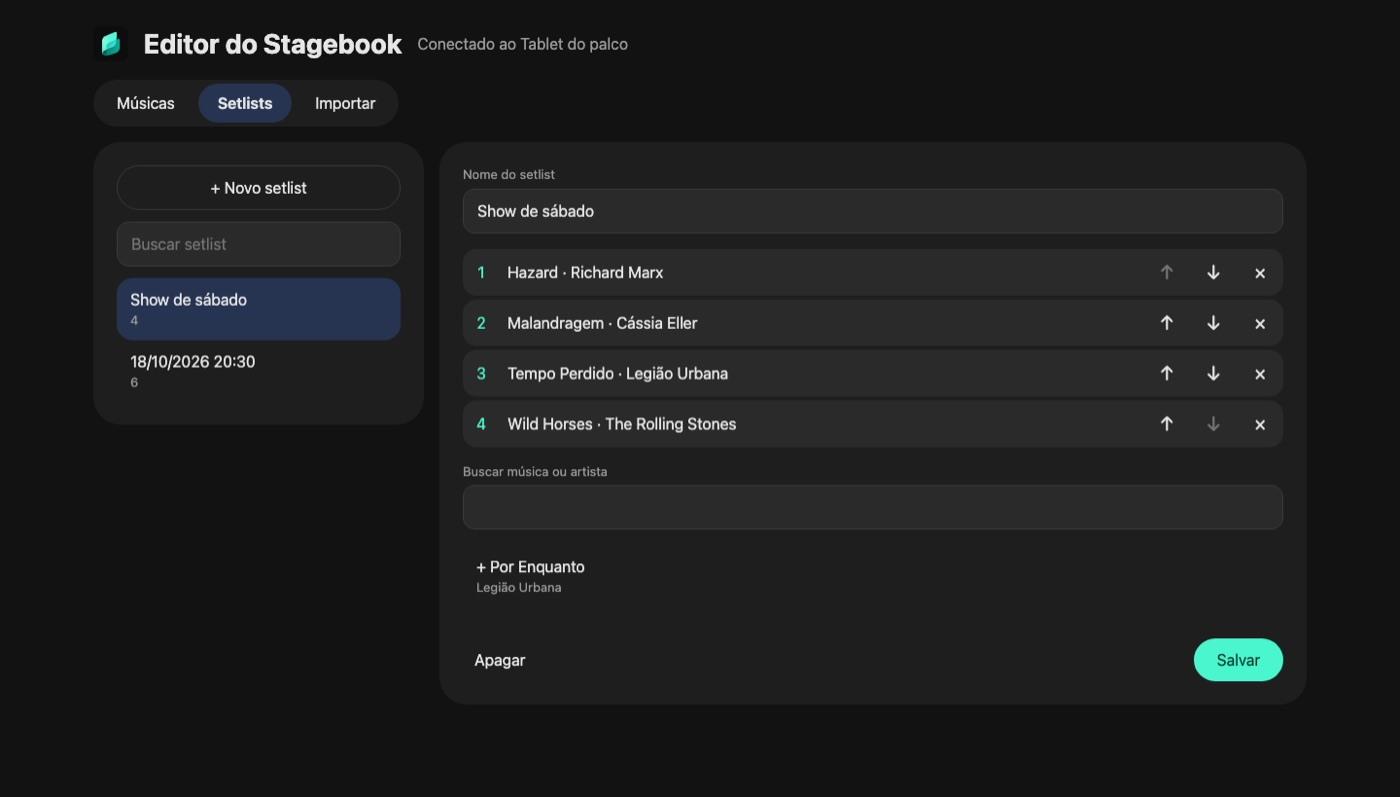
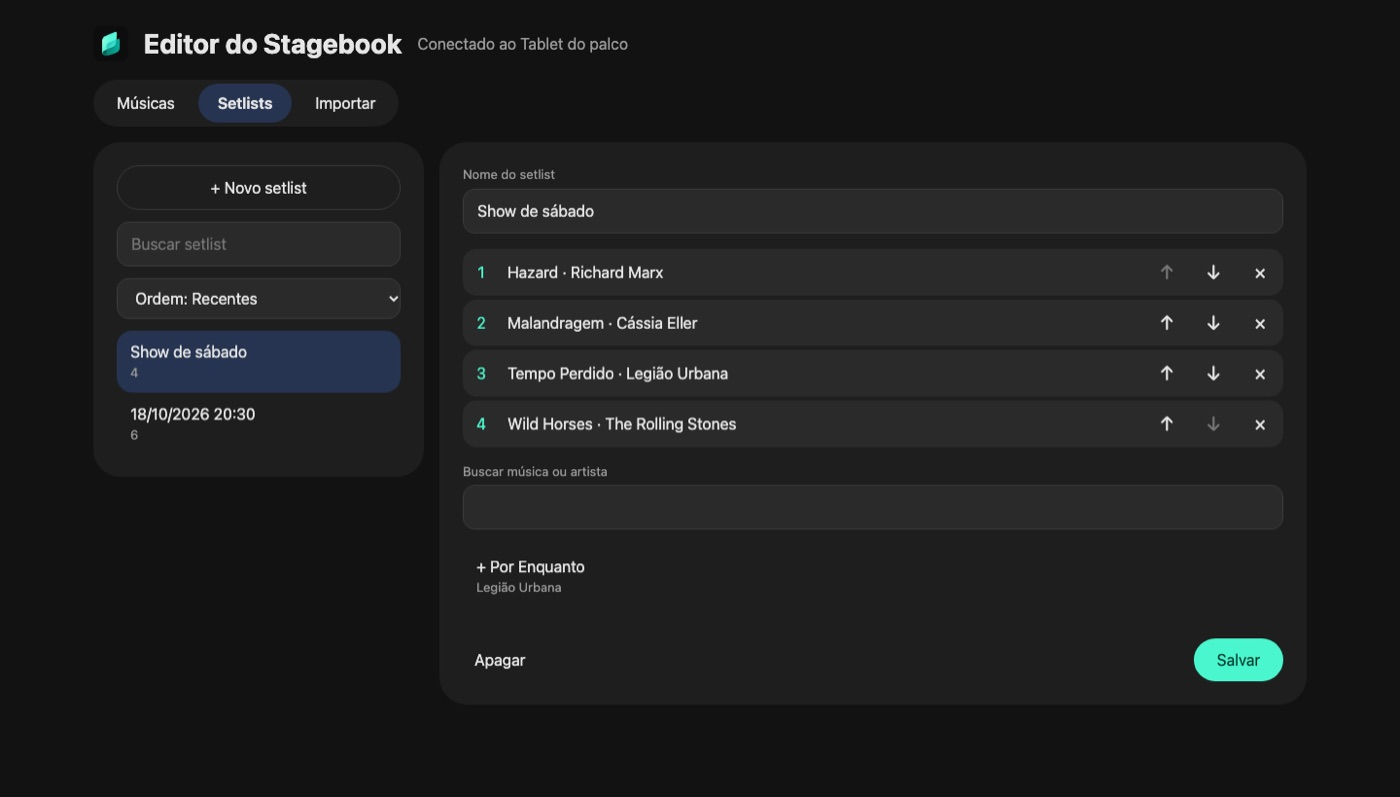
Setlists order also on the computer and for assistants · Ordem dos setlists também no computador e nos assistentes
The tab's choice now reaches the web editor, as a dropdown, and the MCP server, as the setlist_order tool: one setting,
read and changed through /api/sets-order, and /api/sets lists by it. list_setlists takes a name filter. MCP goes to
0.1.3. The sort by name lives in TextKey, shared with the tab.

A escolha da aba agora chega ao editor web, como combo, e ao servidor MCP, como a ferramenta setlist_order: um ajuste só,
lido e mudado por /api/sets-order, e /api/sets lista por ele. list_setlists ganha filtro por nome. MCP vai para 0.1.3.

Release-Note: The editor on the computer can also change the setlists' order · O editor no computador também muda a ordem dos setlists

Changed region(s): [[0.0614, 0.3312, 0.3071, 0.542]]

diff --git a/app/src/main/java/br/app/stagebook/data/web/WebEditorApi.kt b/app/src/main/java/br/app/stagebook/data/web/WebEditorApi.kt
@@ -69,6 +69,10 @@ class WebEditorApi(
     @Serializable
     data class SetItem(val id: String, val name: String, val count: Int)
 
+    /** The Setlists tab's order, the same choice on the tablet, in the browser and for the assistants. */
+    @Serializable
+    data class SetsOrder(val abc: Boolean)
+
     /** A setlist with its songs in order; a song deleted from the library comes with an empty title. */
     @Serializable
     data class SetData(val id: String = "", val name: String = "", val songs: List<SongItem> = emptyList())
@@ -128,7 +132,9 @@ class WebEditorApi(
             parts == listOf("band") && req.method == "GET" -> bandItems()
             parts == listOf("band", "sync") && req.method == "POST" -> bandSync()
             parts == listOf("band", "open") && req.method == "POST" -> bandOpen(req)
-            parts == listOf("sets") && req.method == "GET" -> ok(json.encodeToString(repository.library.value.sets.map { SetItem(it.id, it.name, it.items.size) }))
+            parts == listOf("sets") && req.method == "GET" -> ok(json.encodeToString(setRows()))
+            parts == listOf("sets-order") && req.method == "GET" -> ok(json.encodeToString(SetsOrder(repository.library.value.look.setsAbc)))
+            parts == listOf("sets-order") && req.method == "PUT" -> setsOrder(req)
             parts == listOf("sets") && req.method == "POST" -> setCreate(req)
             parts.size == 2 && parts[0] == "sets" -> when (req.method) {
                 "GET" -> repository.library.value.setlist(parts[1])?.let { ok(json.encodeToString(setData(it))) } ?: HttpResponse.status(404)
@@ -347,6 +353,19 @@ class WebEditorApi(
         set.id, set.name,
         set.items.map { id -> repository.song(id)?.let { SongItem(it.id, it.title, it.author, it.year, Chords.key(it.text)) } ?: SongItem(id, "", "", "", "") },
     )
+
+    /** The setlists in the order the tab shows them, newest first or A to Z. */
+    private fun setRows(): List<SetItem> {
+        val lib = repository.library.value
+        val rows = lib.sets.map { SetItem(it.id, it.name, it.items.size) }
+        return if (lib.look.setsAbc) br.app.stagebook.domain.TextKey.sorted(rows) { it.name } else rows
+    }
+
+    private fun setsOrder(req: HttpRequest): HttpResponse {
+        val d = runCatching { json.decodeFromString<SetsOrder>(req.text()) }.getOrNull() ?: return HttpResponse.status(400)
+        repository.updateLook { it.copy(setsAbc = d.abc) }
+        return ok(json.encodeToString(d))
+    }
 
     private fun setCreate(req: HttpRequest): HttpResponse {
         val d = runCatching { json.decodeFromString<SetSave>(req.text()) }.getOrNull() ?: return HttpResponse.status(400)

diff --git a/app/src/main/assets/web/index.html b/app/src/main/assets/web/index.html
@@ -129,6 +129,7 @@
       <div class="card side">
         <button id="set-new" class="outline"></button>
         <input id="sets-search" type="search">
+        <select id="sets-order"></select>
         <ul class="list" id="sets"></ul>
         <p id="sets-empty" class="muted" hidden></p>
       </div>
@@ -282,6 +283,8 @@ async function connected(session) {
   $("set-new").textContent = "+ " + t.newSet;
   $("search").placeholder = t.search;
   $("sets-search").placeholder = t.setsSearch;
+  $("sets-order").setAttribute("aria-label", t.setsOrder);
+  $("sets-order").replaceChildren(...[["false", t.setsNewest], ["true", t.setsAbc]].map(([value, name]) => Object.assign(document.createElement("option"), { value, textContent: `${t.setsOrder}: ${name}` })));
   $("f-tags").placeholder = t.tagsHint;
   $("pick").textContent = t.pick;
   $("set-pick").textContent = t.pick;
@@ -514,6 +517,9 @@ async function loadSets() {
   const r = await api("/api/sets").catch(() => null);
   if (!r || r.status !== 200) return;
   sets = await r.json();
+  const o = await api("/api/sets-order").catch(() => null);
+  if (o && o.status === 200) $("sets-order").value = String((await o.json()).abc);
+  $("sets-order").hidden = sets.length < 2;
   drawSets();
 }
 
@@ -529,6 +535,11 @@ function drawSets() {
   $("sets-empty").textContent = sets.length ? t.setsNotFound : t.noSets;
 }
 $("sets-search").oninput = drawSets;
+// the same choice as the tablet's Setlists tab: it changes there too
+$("sets-order").onchange = async () => {
+  await api("/api/sets-order", { method: "PUT", body: JSON.stringify({ abc: $("sets-order").value === "true" }) }).catch(() => null);
+  loadSets();
+};
 
 async function openSet(id) {
   if (!leaveOk()) return;

diff --git a/mcp/src/server.ts b/mcp/src/server.ts
@@ -334,11 +334,27 @@ export function buildServer(client: StagebookClient): McpServer {
     "list_setlists",
     {
       title: "List setlists",
-      description: "The setlists (id, name, number of songs).",
-      inputSchema: {},
+      description: "The setlists (id, name, number of songs), in the order the app's Setlists tab shows them. Optional filter.",
+      inputSchema: { query: z.string().optional().describe("Part of the name (accents and case ignored).") },
       annotations: { readOnlyHint: true },
     },
-    safe(async () => text(await client.get("/api/sets"))),
+    safe(async ({ query }: { query?: string }) => {
+      const sets = (await client.get("/api/sets")) as { name: string }[];
+      return text(query ? sets.filter((s) => norm(s.name).includes(norm(query))) : sets);
+    }),
+  );
+
+  server.registerTool(
+    "setlist_order",
+    {
+      title: "Setlists order",
+      description: "Reads the order of the app's Setlists tab or, with order, changes it there: newest first or A to Z.",
+      inputSchema: { order: z.enum(["newest", "abc"]).optional().describe("Leave it out to only read the current order.") },
+    },
+    safe(async ({ order }: { order?: "newest" | "abc" }) => {
+      const now = order ? await client.send("PUT", "/api/sets-order", { abc: order === "abc" }) : await client.get("/api/sets-order");
+      return text({ order: now.abc ? "abc" : "newest" });
+    }),
   );
 
   server.registerTool(

diff --git a/app/src/test/java/br/app/stagebook/WebEditorMoreTest.kt b/app/src/test/java/br/app/stagebook/WebEditorMoreTest.kt
@@ -97,6 +97,17 @@ class WebEditorMoreTest {
         assertEquals(null, repo.library.value.setlist(id))
     }
 
+    @Test fun `the computer reads and changes the setlists order and lists by it`() {
+        val api = WebEditorApi(repo)
+        repo.createSetlist("Zé"); repo.createSetlist("ábaco")
+        assertEquals("""{"abc":false}""", call(api, "GET", "/api/sets-order").text())
+        assertEquals(200, call(api, "PUT", "/api/sets-order", """{"abc":true}""").status)
+        assertTrue(repo.library.value.look.setsAbc)
+        val list = call(api, "GET", "/api/sets").text()
+        assertTrue(list.indexOf("ábaco") < list.indexOf("Zé"))
+        assertEquals(400, call(api, "PUT", "/api/sets-order", "x").status)
+    }
+
     @Test fun `backing track sent from the computer is linked to the song, and can be removed`() {
         val tracks = TrackStore(context)
         val id = repo.saveSong(Song(title = "Com faixa"))

diff --git a/app/src/main/java/br/app/stagebook/ui/setlists/SetlistsViewModel.kt b/app/src/main/java/br/app/stagebook/ui/setlists/SetlistsViewModel.kt
@@ -29,7 +29,7 @@ data class SetlistsUiState(val loading: Boolean = true, val sets: List<SetlistRo
  * key, as tags and songs are sorted (a Collator here was a second way of doing it; audit 03/11).
  */
 fun setlistOrder(sets: List<SetlistRowUi>, abc: Boolean): List<SetlistRowUi> =
-    if (abc) sets.sortedBy { br.app.stagebook.domain.TextKey.of(it.name.trim()) } else sets
+    if (abc) br.app.stagebook.domain.TextKey.sorted(sets) { it.name } else sets
 
 /** The setlists whose name has the search, ignoring case and accents as the song search does. */
 fun setlistSearch(sets: List<SetlistRowUi>, query: String): List<SetlistRowUi> {

diff --git a/app/src/main/java/br/app/stagebook/data/web/WebEditorServer.kt b/app/src/main/java/br/app/stagebook/data/web/WebEditorServer.kt
@@ -224,6 +224,9 @@ class WebEditorServer @Inject constructor(
             "search" to R.string.songs_search,
             "setsSearch" to R.string.sets_search,
             "setsNotFound" to R.string.sets_not_found,
+            "setsOrder" to R.string.sets_sort,
+            "setsNewest" to R.string.sets_sort_newest,
+            "setsAbc" to R.string.sets_sort_abc,
             "newSong" to R.string.songs_new,
             "noSongs" to R.string.songs_empty_title,
             "notFound" to R.string.songs_not_found,

diff --git a/app/src/main/java/br/app/stagebook/domain/TextKey.kt b/app/src/main/java/br/app/stagebook/domain/TextKey.kt
@@ -9,6 +9,9 @@ object TextKey {
     private val nonAlnum = Regex("[^a-z0-9]+")
     private val apostrophes = Regex("['’´`]")   // "it's" = "its", "don´t" = "dont"
 
+    /** A to Z by [name], ignoring case and accents: the one way the app sorts by name. */
+    fun <T> sorted(items: List<T>, name: (T) -> String): List<T> = items.sortedBy { of(name(it).trim()) }
+
     fun of(s: String?): String =
         Normalizer.normalize(s.orEmpty(), Normalizer.Form.NFD)
             .replace(marks, "")

diff --git a/mcp/README.pt-BR.md b/mcp/README.pt-BR.md
@@ -21,7 +21,7 @@ Copilot, Windsurf, Gemini CLI, OpenAI Codex CLI…).
 | Músicas | `list_songs` (filtros: texto, tag, tom), `get_song`, `create_song`, `update_song`, `delete_song`, `transpose_song`, `set_capo` |
 | Importar | `import_song` (letra e cifra coladas em qualquer formato comum, ou o endereço de uma página) |
 | Backing tracks | `set_backing_track` (OGG, MP3 ou WAV do computador), `remove_backing_track` |
-| Setlists | `list_setlists`, `get_setlist`, `create_setlist`, `update_setlist`, `delete_setlist` |
+| Setlists | `list_setlists` (filtro: nome), `setlist_order` (recentes ou A a Z, o mesmo da aba do app), `get_setlist`, `create_setlist`, `update_setlist`, `delete_setlist` |
 | Receber | `receive_by_code` (as 3 palavras), `receive_create`, `band_inbox`, `band_sync`, `open_band_item` |
 | Backup | `restore_backup` (ver o que um arquivo `.stagebook` tem, juntar o que falta ou substituir a biblioteca) |
 
@@ -85,7 +85,7 @@ O app do ChatGPT só se conecta a servidores remotos (pela internet), então nã
 2. Peça ao assistente para conectar no Stagebook. Ele procura na rede (ou você passa o endereço) e o tablet mostra um
    pedido com um código. Se mais de um tablet com o Stagebook responder (uma banda no mesmo Wi-Fi), ele pergunta qual
    endereço é o seu; se o endereço do seu tablet mudou, ele procura de novo.
-3. Se o código bater, toque em **Permitir** no tablet. A chave fica guardada neste computador
+3. Se o código bater, toque em **Autorizar** no tablet. A chave fica guardada neste computador
    (`~/.config/stagebook-mcp/config.json`, que só você lê); da próxima vez ele conecta sem perguntar.
 
 O editor desliga sozinho no tablet quando fica sem uso: ligue de novo quando quiser usar o assistente. A chave dura 90
@@ -108,7 +108,7 @@ dias sem uso; **Ajustes → Editar no computador → Computadores autorizados** 
   Abra **Ajustes do Sistema → Privacidade e Segurança → Rede Local** e ligue o app que roda o assistente (Claude,
   Terminal, iTerm, Cursor, VS Code…). Depois reabra esse app.
 - **"No longer accepts this computer's key"**: a chave foi removida no tablet ou passou 90 dias sem uso. Conecte de novo.
-- **"Already showing a request, or one was just denied"**: responda o pedido no tablet; depois de um Negar, ele espera
+- **"Already showing a request, or one was just denied"**: responda o pedido no tablet; depois de um Recusar, ele espera
   5 minutos para aceitar outro.
 - **"Not found on the tablet, or that part is turned off"**: receber por código precisa da internet ligada, e as
   ferramentas de banda precisam da banda ligada, nos Ajustes do tablet.

diff --git a/mcp/README.md b/mcp/README.md
@@ -21,7 +21,7 @@ Windsurf, Gemini CLI, OpenAI Codex CLI…).
 | Songs | `list_songs` (filters: text, tag, key), `get_song`, `create_song`, `update_song`, `delete_song`, `transpose_song`, `set_capo` |
 | Import | `import_song` (pasted lyrics/chords in any common format, or a song page address) |
 | Backing tracks | `set_backing_track` (OGG, MP3 or WAV from this computer), `remove_backing_track` |
-| Setlists | `list_setlists`, `get_setlist`, `create_setlist`, `update_setlist`, `delete_setlist` |
+| Setlists | `list_setlists` (filter: name), `setlist_order` (newest or A to Z, the same as the app's tab), `get_setlist`, `create_setlist`, `update_setlist`, `delete_setlist` |
 | Receiving | `receive_by_code` (the 3 words), `receive_create`, `band_inbox`, `band_sync`, `open_band_item` |
 | Backup | `restore_backup` (inspect a `.stagebook` file, add what's missing or replace the library) |
 
